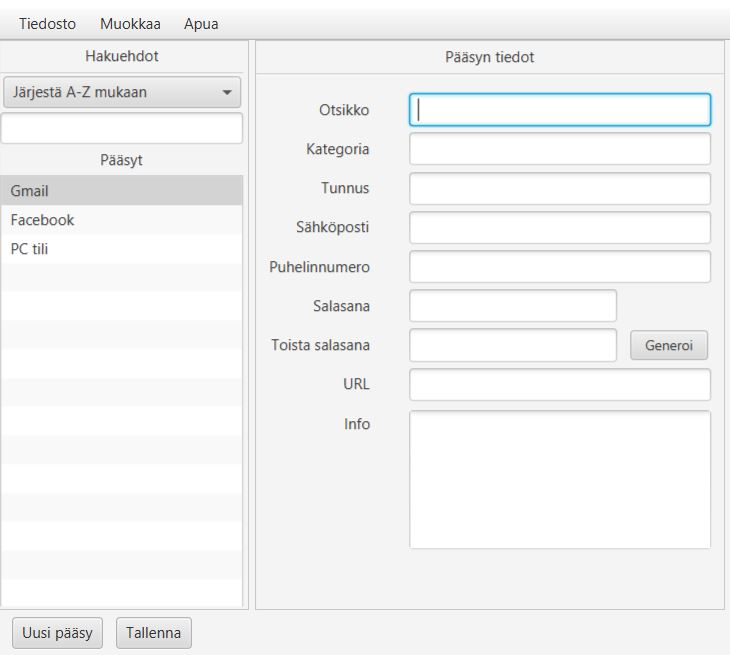
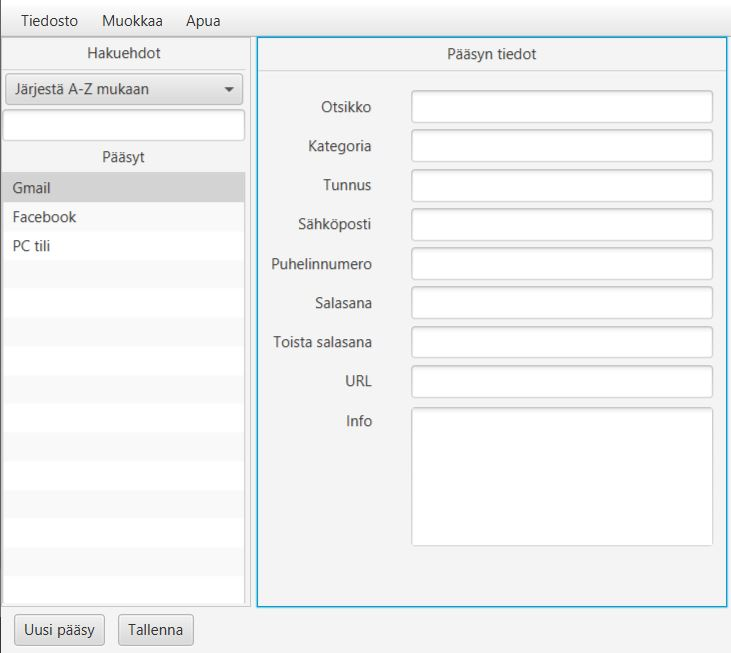
pieniä korjauksia

diff --git a/ht/src/fxPassreg/PassregViewController.java b/ht/src/fxPassreg/PassregViewController.java
@@ -11,33 +11,20 @@ import fi.jyu.mit.fxgui.Dialogs;
 import javafx.application.Platform;
 import javafx.fxml.FXML;
 import javafx.fxml.Initializable;
-import javafx.scene.control.Button;
-import javafx.scene.control.Tooltip;
 
 /**
  * @author Yahya
  * @version 19.1.2021
- * Pääohjelman kontrolleeri
+ * Pääikkunan kontrolleeri
  */
 public class PassregViewController implements Initializable {
 
     
     private String tiedostonNimi = "Salasanat";
-    @FXML private Button generoiButton;
     
     @Override
     public void initialize(URL arg0, ResourceBundle arg1) {
-        Tooltip tooltip = new Tooltip();
-        tooltip.setText("Avaa uuden ikkunan, jossa generoidaan automaattinen salasana valitsemasi kenttien mukaan");
-        generoiButton.setTooltip(tooltip);
-    }
-    
-    
-    /**
-     * Käsitellään generoi-painikkeen toiminta
-     */
-    @FXML private void handleGeneroi() {
-        avaaGeneroiDialog();
+       // Tähän tarvittavat alustukset
     }
 
     
@@ -179,14 +166,6 @@ public class PassregViewController implements Initializable {
      */
     private void lopeta() {
         Platform.exit();
-    }
-    
-    
-    /**
-     * Avataan ikkuna, jossa generoidaan salasana.
-     */
-    private void avaaGeneroiDialog() {
-        GeneroiDialogController.naytaGeneroiIkkuna();
     }
 
     
